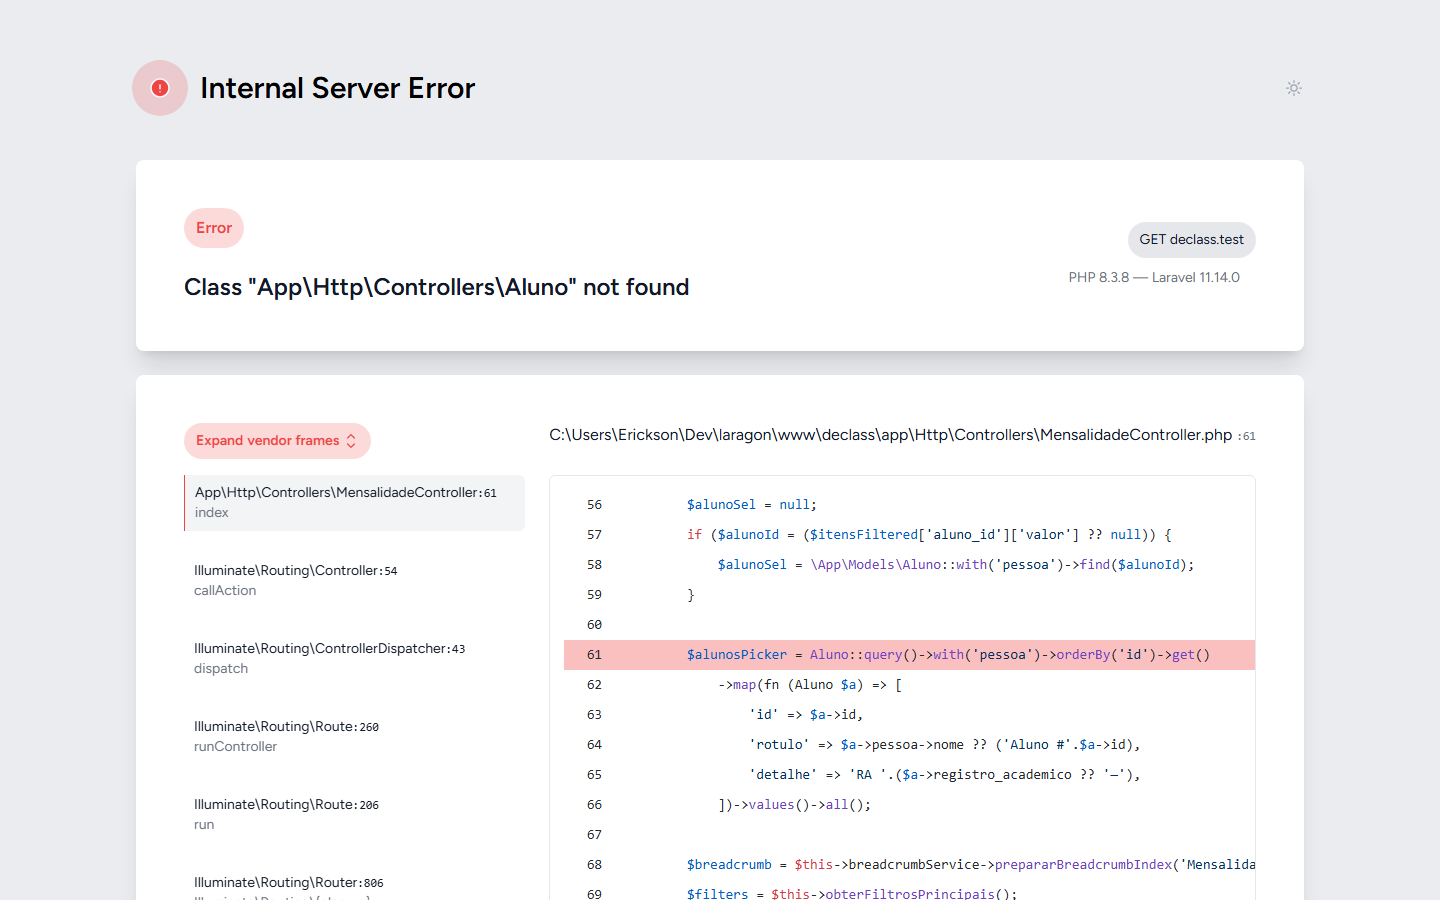
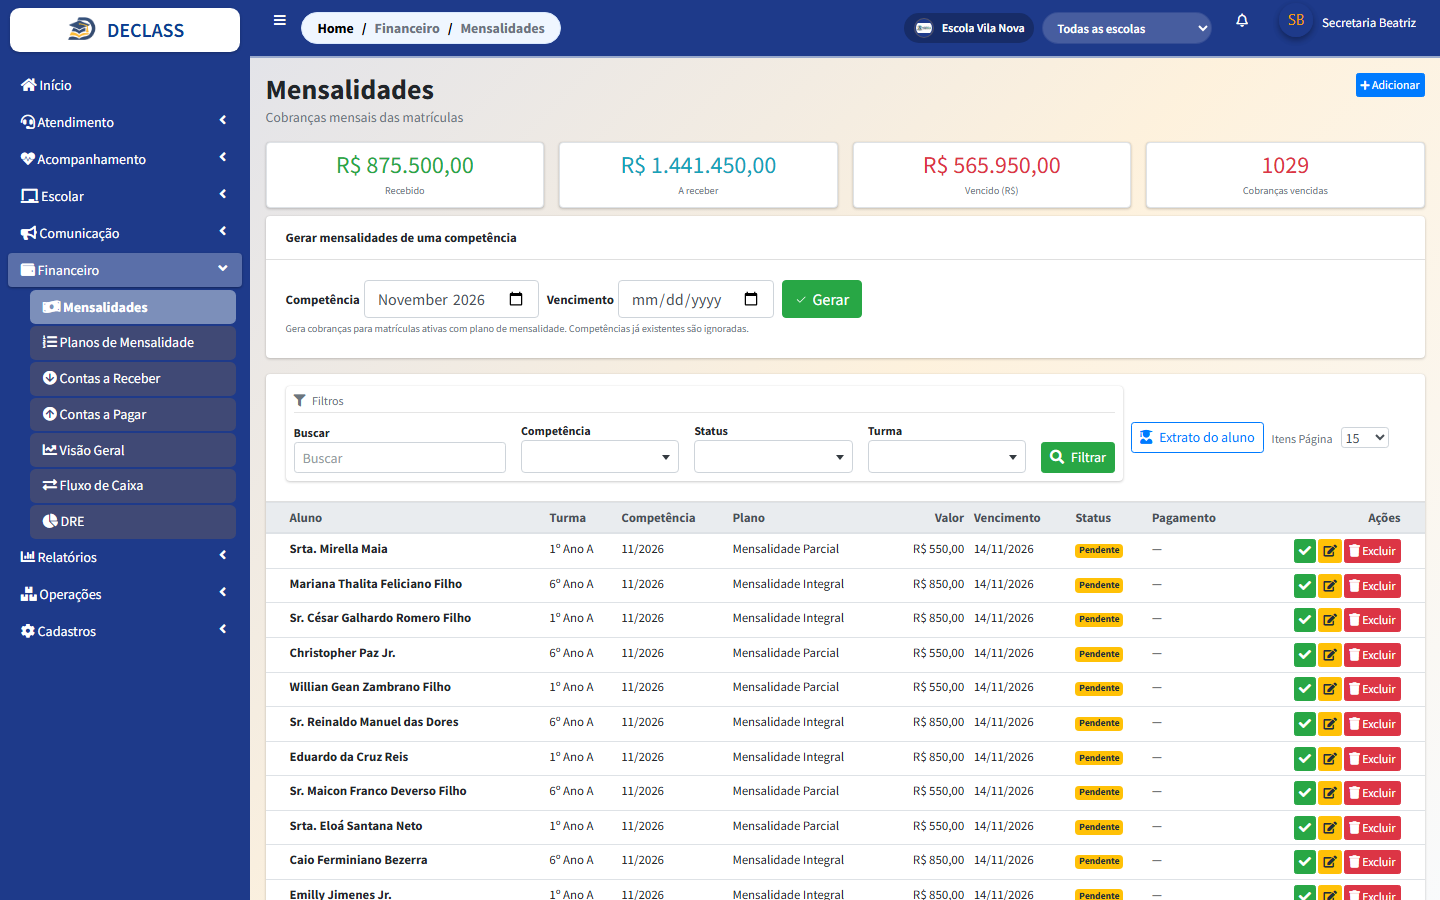
fix: mensalidade sem import de Aluno e CURDATE incompativel com sqlite
- MensalidadeController usava Aluno:: sem use (500 na listagem)
- MensalidadeService trocou CURDATE() por data do PHP
- Print de mensalidade recapturado sem tela de erro

Generated with [Devin](https://devin.ai)

diff --git a/app/Services/MensalidadeService.php b/app/Services/MensalidadeService.php
@@ -52,8 +52,8 @@ class MensalidadeService extends AbstractBaseService
                 COUNT(*) as cobrancas,
                 COALESCE(SUM(valor),0) as total,
                 SUM(CASE WHEN status = 'paga' THEN valor ELSE 0 END) as recebido,
-                SUM(CASE WHEN status = 'pendente' AND vencimento < CURDATE() THEN valor ELSE 0 END) as vencido,
-                SUM(CASE WHEN status = 'pendente' AND vencimento >= CURDATE() THEN valor ELSE 0 END) as a_receber
+                SUM(CASE WHEN status = 'pendente' AND vencimento < '".today()->toDateString()."' THEN valor ELSE 0 END) as vencido,
+                SUM(CASE WHEN status = 'pendente' AND vencimento >= '".today()->toDateString()."' THEN valor ELSE 0 END) as a_receber
             "))
             ->first();
 

diff --git a/app/Http/Controllers/MensalidadeController.php b/app/Http/Controllers/MensalidadeController.php
@@ -6,6 +6,7 @@ use App\Http\Controllers\Interfaces\FiltroInterface;
 use App\Http\Requests\Mensalidade\GerarMensalidadesRequest;
 use App\Http\Requests\Mensalidade\StoreMensalidadeRequest;
 use App\Http\Requests\Mensalidade\UpdateMensalidadeRequest;
+use App\Models\Aluno;
 use App\Models\Matricula;
 use App\Models\Mensalidade;
 use App\Models\Turma;
